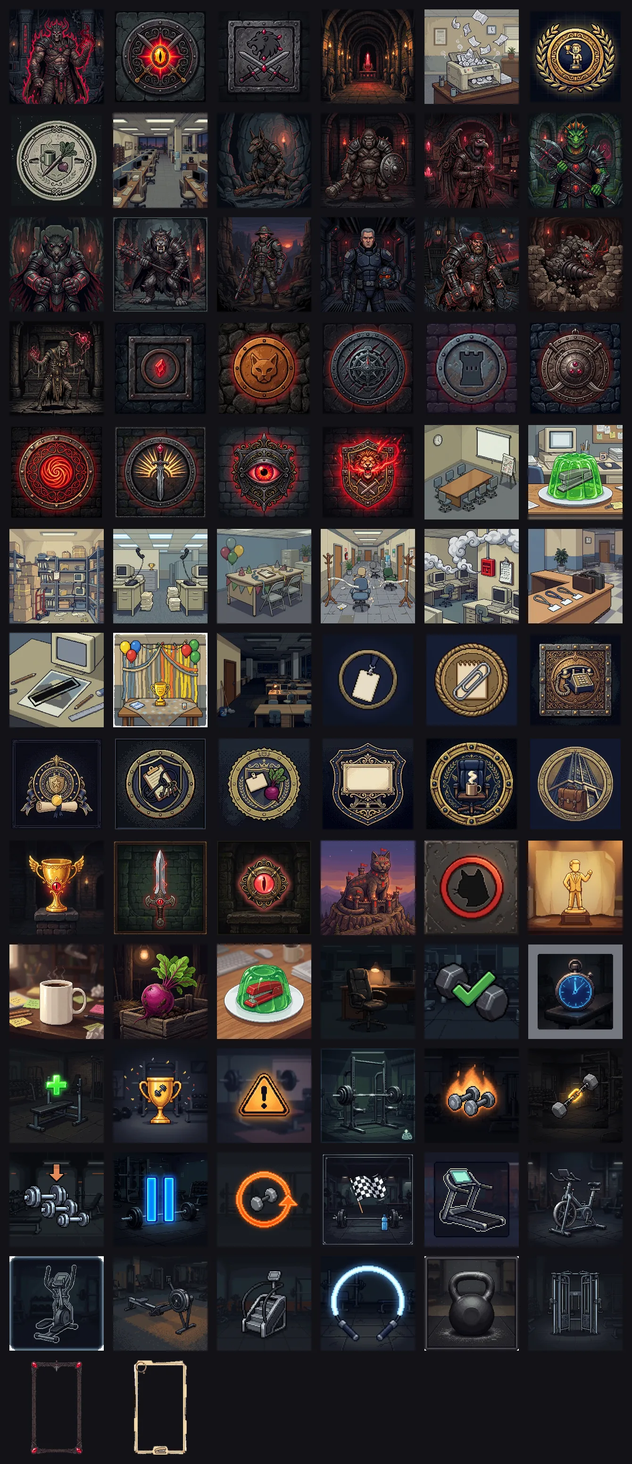
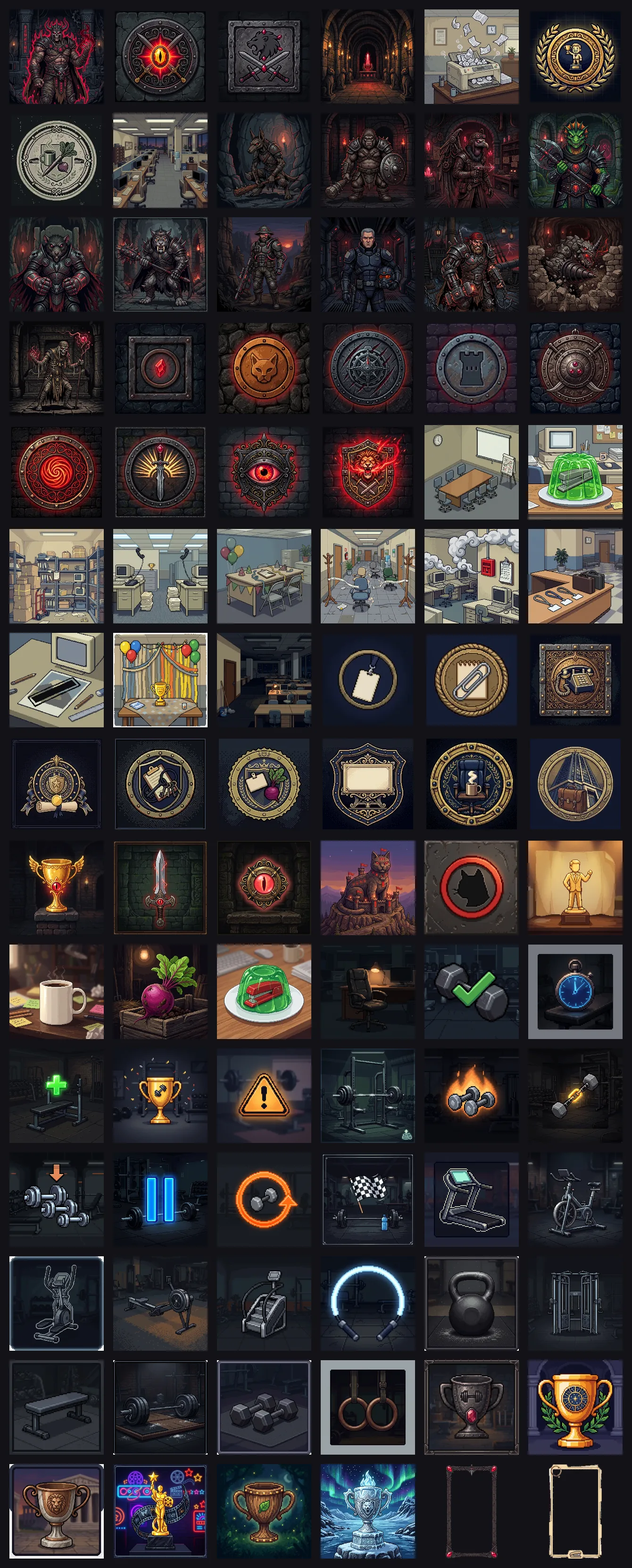
Artes lote 9: fecha cartela 8 e abre cartela 9 (trofeus dos temas)
10 pecas geradas individualmente, revisadas peca a peca, derivados 512 NEAREST, manifesto 90 registros. Trofeus sem vinculo com conquistas ou regras. Validacao completa no fechamento da PR.

diff --git a/scripts/prepare-art-lote1.py b/scripts/prepare-art-lote1.py
@@ -291,6 +291,40 @@ PECAS = [
     ('eq-polia', 'Polia', 'cardio-equipamentos', 'equipamentos',
      'lote8-polia.png', 'equipamentos/polia.webp',
      (512, 512), 'nearest', 'images/artes/candidatos/equipamentos/polia.webp (cartela 8; sem vínculo com UI)'),
+
+    # Lote 9 — fecha a cartela 8 (Banco, Barra com anilhas, Halteres, Argolas)
+    # e abre a cartela 9 (Troféus dos temas existentes, 6 de 10; lista:
+    # um troféu por tema original, na ordem de THEME_IDS_LIST).
+    ('eq-banco', 'Banco', 'cardio-equipamentos', 'equipamentos',
+     'lote9-banco.png', 'equipamentos/banco.webp',
+     (512, 512), 'nearest', 'images/artes/candidatos/equipamentos/banco.webp (cartela 8 completa; sem vínculo com UI)'),
+    ('eq-barra-com-anilhas', 'Barra com anilhas', 'cardio-equipamentos', 'equipamentos',
+     'lote9-barra-anilhas.png', 'equipamentos/barra-com-anilhas.webp',
+     (512, 512), 'nearest', 'images/artes/candidatos/equipamentos/barra-com-anilhas.webp (cartela 8 completa; sem vínculo com UI)'),
+    ('eq-halteres', 'Halteres', 'cardio-equipamentos', 'equipamentos',
+     'lote9-halteres.png', 'equipamentos/halteres.webp',
+     (512, 512), 'nearest', 'images/artes/candidatos/equipamentos/halteres.webp (cartela 8 completa; sem vínculo com UI)'),
+    ('eq-argolas', 'Argolas', 'cardio-equipamentos', 'equipamentos',
+     'lote9-argolas.png', 'equipamentos/argolas.webp',
+     (512, 512), 'nearest', 'images/artes/candidatos/equipamentos/argolas.webp (cartela 8 completa; sem vínculo com UI)'),
+    ('tf-classico', 'Troféu Berzerker (clássico)', 'classico', 'trofeus',
+     'lote9-trofeu-classico.png', 'trofeus/trofeu-classico.webp',
+     (512, 512), 'nearest', 'images/artes/candidatos/trofeus/trofeu-classico.webp (cartela 9; sem vínculo com UI nem conquista nova)'),
+    ('tf-zodiaco', 'Troféu Cavaleiros do Zodíaco', 'zodiaco', 'trofeus',
+     'lote9-trofeu-zodiaco.png', 'trofeus/trofeu-zodiaco.webp',
+     (512, 512), 'nearest', 'images/artes/candidatos/trofeus/trofeu-zodiaco.webp (cartela 9; sem vínculo com UI nem conquista nova)'),
+    ('tf-hercules', 'Troféu 12 Trabalhos de Hércules', 'hercules', 'trofeus',
+     'lote9-trofeu-hercules.png', 'trofeus/trofeu-hercules.webp',
+     (512, 512), 'nearest', 'images/artes/candidatos/trofeus/trofeu-hercules.webp (cartela 9; sem vínculo com UI nem conquista nova)'),
+    ('tf-acao', 'Troféu Filmes de Ação', 'acao', 'trofeus',
+     'lote9-trofeu-acao.png', 'trofeus/trofeu-acao.webp',
+     (512, 512), 'nearest', 'images/artes/candidatos/trofeus/trofeu-acao.webp (cartela 9; sem vínculo com UI nem conquista nova)'),
+    ('tf-folclore', 'Troféu Folclore Brasileiro', 'folclore', 'trofeus',
+     'lote9-trofeu-folclore.png', 'trofeus/trofeu-folclore.webp',
+     (512, 512), 'nearest', 'images/artes/candidatos/trofeus/trofeu-folclore.webp (cartela 9; sem vínculo com UI nem conquista nova)'),
+    ('tf-nordica', 'Troféu Mitologia Nórdica', 'nordica', 'trofeus',
+     'lote9-trofeu-nordica.png', 'trofeus/trofeu-nordica.webp',
+     (512, 512), 'nearest', 'images/artes/candidatos/trofeus/trofeu-nordica.webp (cartela 9; sem vínculo com UI nem conquista nova)'),
 ]
 
 # Notas de revisão peça a peça que complementam a nota genérica do método
@@ -300,6 +334,14 @@ NOTAS_EXTRA = {
     'tc-id-simbolo-central': ' Divergência registrada: silhueta felina assimétrica, com bigodes apenas à esquerda; leitura a 28 px conferida na prova de leitura.',
     'to-id-trofeu-dundie': ' Divergência registrada: fundo claro tipo folha/cortina de papel atrás da estatueta; placa da base em branco, sem texto.',
     'to-id-caneca': ' Divergência registrada: post-its ao fundo com rabiscos abstratos ilegíveis (sem texto legível); caneca em branco, sem logo.',
+    'eq-banco': ' Divergência registrada: composição escura com moldura interna; banco bem legível no centro.',
+    'eq-halteres': ' Divergência registrada: moldura cinza decorativa em volta de todo o quadro.',
+    'eq-argolas': ' Divergência registrada: margem cinza em volta do quadro e argolas sobrepostas no centro (leitura OO).',
+    'tf-classico': ' Divergência registrada: moldura metálica decorativa em volta de todo o quadro.',
+    'tf-zodiaco': ' Divergência registrada: roda do zodíaco com glifos/constelações abstratos ilegíveis nos segmentos.',
+    'tf-hercules': ' Divergência registrada: moldura escura arredondada com cantos externos claros.',
+    'tf-acao': ' Divergência registrada: estatueta (não taça) com estrela e rolo de filme; neon ao fundo com rabiscos pseudo-texto ilegíveis.',
+    'tf-nordica': ' Divergência registrada: marcas rúnicas decorativas na base (glifos, sem palavra em alfabeto latino).',
     'tr-fim-do-treino': ' Divergência registrada: moldura fina decorativa em volta de todo o quadro.',
     'eq-esteira': ' Divergência registrada: contorno claro tipo adesivo e painel retangular escuro atrás do console.',
     'eq-eliptico': ' Divergência registrada: contorno claro tipo adesivo em volta da máquina e do quadro.',
@@ -458,7 +500,7 @@ def arquivo_peca(dest, uso):
 
 # 1) leitura a 28/56 px de patentes, selos e identidade (método final)
 alvos_leitura = [(pid, dest, uso) for pid, peca, tema, cat, fname, dest, alvo, metodo, uso in PECAS
-                 if cat in ('patentes', 'temas', 'identidade', 'treino', 'equipamentos') and arquivo_peca(dest, uso).exists()]
+                 if cat in ('patentes', 'temas', 'identidade', 'treino', 'equipamentos', 'trofeus') and arquivo_peca(dest, uso).exists()]
 faixa = Image.new('RGB', (max(1, len(alvos_leitura)) * 90, 200), (24, 24, 28))
 col = 0
 for pid, dest, uso in alvos_leitura:

diff --git a/docs/ARTES_THUNDERCATS_OFFICE.md b/docs/ARTES_THUNDERCATS_OFFICE.md
@@ -113,6 +113,8 @@ Originais grandes em `.cache/artes-originais/lote*.png` (≈2 MB cada; `.cache/`
 
 **Lote 8 (chamadas 71–80) — fecha a cartela 7 e abre a cartela 8:** Repetir série e Fim do treino (cartela 7 completa, 12/12); Esteira, Bicicleta ergométrica, Elíptico, Remo, Escada ergométrica, Corda de pular, Kettlebell e Polia (cartela 8, 8/12; lista adotada de 12, faltam Banco, Barra com anilhas, Halteres e Argolas). Derivados 512×512 NEAREST em `images/artes/candidatos/treino/` e `.../equipamentos/`; divergências por peça no manifesto (molduras/contornos de adesivo em Fim do treino, Esteira, Elíptico e Kettlebell; marca abstrata ilegível na Polia).
 
+**Lote 9 (chamadas 81–90) — fecha a cartela 8 e abre a cartela 9:** Banco, Barra com anilhas, Halteres e Argolas (cartela 8 completa, 12/12); Troféu Berzerker (clássico), Troféu Cavaleiros do Zodíaco, Troféu 12 Trabalhos de Hércules, Troféu Filmes de Ação, Troféu Folclore Brasileiro e Troféu Mitologia Nórdica (cartela 9, 6/10; faltam Roma, RPG, Galáctica e Anéis). Troféus são apenas arte candidata — **nenhuma conquista, desbloqueio ou regra nova** associada. Divergências por peça no manifesto (molduras decorativas recorrentes, glifos abstratos, neon pseudo-texto ilegível no troféu de Ação).
+
 Runas/marcas decorativas nos salões e placas são abstratas, **sem nomes, números ou legendas legíveis** (conforme especificação).
 
 ### 2.2 Imagens fornecidas pelo usuário
@@ -152,7 +154,7 @@ Nos lotes 1–5, os derivados nasceram em `images/artes/candidatos/` (fora do CO
 
 ### 2.4 Artes ainda pendentes
 
-**22 peças do plano editorial** (98 − 76 concluídas) + completude de tema: cada tema novo exige **24 arquivos** para a galeria (12 retratos + 10 patentes + 1 selo + 1 fundo). **ThunderCats (24/24) e The Office (24/24) foram cadastrados na galeria nesta PR** com aprovação explícita do usuário (§6): os 48 arquivos saíram de `images/artes/candidatos/` para os caminhos finais e os registros correspondentes do manifesto estão `em uso` (ids preservados). Restam como candidatos as 10 peças de identidade do lote 6, as 12 peças de treino (cartela 7 completa), as 8 de cardio/equipamentos do lote 8 e as 2 molduras (infraestrutura fora da contagem; os fundos são completude de tema, não constavam nas 98).
+**12 peças do plano editorial** (98 − 86 concluídas) + completude de tema: cada tema novo exige **24 arquivos** para a galeria (12 retratos + 10 patentes + 1 selo + 1 fundo). **ThunderCats (24/24) e The Office (24/24) foram cadastrados na galeria nesta PR** com aprovação explícita do usuário (§6): os 48 arquivos saíram de `images/artes/candidatos/` para os caminhos finais e os registros correspondentes do manifesto estão `em uso` (ids preservados). Restam como candidatos as 10 peças de identidade do lote 6, as 12 de treino (cartela 7), as 12 de cardio/equipamentos (cartela 8), os 6 troféus do lote 9 e as 2 molduras (infraestrutura fora da contagem; os fundos são completude de tema, não constavam nas 98).
 
 ## 3. Provas visuais (`docs/provas-lote1/`, montadas por código)
 
@@ -188,8 +190,8 @@ As listas enviadas somam **98** (o rótulo "94" do pedido não fecha com as list
 | 5 | The Office — Patentes | 10 | **10 (completa)** | 0 |
 | 6 | The Office — Identidade | 6 | **6 (completa: Selo + lote 6)** | 0 |
 | 7 | Treino — séries e descanso | 12 | **12 (completa)** | 0 |
-| 8 | Cardio e equipamentos | 12 | 8 (lote 8) | 4 (Banco, Barra com anilhas, Halteres, Argolas) |
-| 9 | Troféus dos temas existentes | 10 | 0 | 10 |
+| 8 | Cardio e equipamentos | 12 | **12 (completa)** | 0 |
+| 9 | Troféus dos temas existentes | 10 | 6 (lote 9) | 4 (Roma, RPG, Galáctica, Anéis) |
 | 10 | Estados vazios e utilitários | 8 | 0 | 8 |
 
 Notas editoriais mantidas do pedido: The Office trata situações como **desafios** (não personagens como vilões), sem violência gráfica; linguagem do tema proposta (Arena: Filial de Scranton; Boss: Desafio do expediente; Vitória: Problema resolvido; Patentes: Carreira na filial) foi **aprovada e aplicada no cadastro** (§6). Cartela 10: ilustrações de backup/restauração **nunca** podem sugerir que a operação aconteceu sem confirmação do sistema. Cartelas 7–8: o usuário decidiu **gerar tudo novo, sem reuso** dos ícones existentes (a contagem "94" fica superada; valem as 98 gerações). Os símbolos cíclicos `simbolo-ciclo-01/02` continuam ambíguos e **não** equivalem a bi-set/drop-set. Nada de regra nova de classificação de séries, conquistas ou condições de desbloqueio por causa de imagens.

diff --git a/CHANGELOG.md b/CHANGELOG.md
@@ -16,6 +16,7 @@ Formato baseado em [Keep a Changelog](https://keepachangelog.com/pt-BR/1.1.0/).
 - **Cadastro dos temas ThunderCats e The Office na galeria (aprovado explicitamente nesta PR):** IDs estáveis novos `thundercats`/`office` ao fim das listas (IDs existentes e progresso salvo intocados); `THEMES` com 10 patentes + 12 chefões/desafios por tema na curva de HP compartilhada e fraquezas nos grupos reais; linguagem do Office aplicada (Arena "Filial de Scranton", Boss "Desafio do expediente", carreira na filial até Lenda de Scranton); 48 arquivos movidos dos candidatos para `images/bosses|patentes|temas|cards`; `DEFAULT_BOSS_PORTRAITS` 120→144; paletas de Story Card e molduras de canvas `garra`/`caderno`; `sw.js` **v59→v60** com os 48 arquivos no CORE (cache offline cresce ≈1,5 MB); testes atualizados (144 retratos, 12 temas, 132 imagens de patentes/cards também na validação em navegador real). Sem mudança em fórmulas de treino/XP/dano/PR/histórico. ThunderCats/The Office são propriedades de terceiros — arte gerada não implica licença comercial.
 - **Lote 7 (chamadas 61–70):** cartela 7 (Treino: séries e descanso) com 10 peças candidatas em `images/artes/candidatos/treino/` (Série concluída a Pausa; faltam 2) — lista adotada das funções reais da sessão, sem vínculo com UI e sem regra nova de classificação. Manifesto com **70 registros**; plano **66/98, 32 pendentes**. Validação completa fica para o fechamento da PR (modo de trabalho ajustado a pedido do usuário).
 - **Lote 8 (chamadas 71–80):** fecha a cartela 7 (Repetir série, Fim do treino — 12/12) e abre a cartela 8 com 8 equipamentos (Esteira a Polia; faltam 4). Manifesto com **80 registros**; plano **76/98, 22 pendentes**. Sem vínculo com UI; validação completa no fechamento da PR.
+- **Lote 9 (chamadas 81–90):** fecha a cartela 8 (Banco, Barra com anilhas, Halteres, Argolas — 12/12) e abre a cartela 9 com 6 troféus de temas (clássico a nórdica; faltam 4). Manifesto com **90 registros**; plano **86/98, 12 pendentes**. Troféus sem vínculo com conquistas/regras; validação completa no fechamento da PR.
 
 ## [Não lançado] — faixa semanal editável por grupo
 
